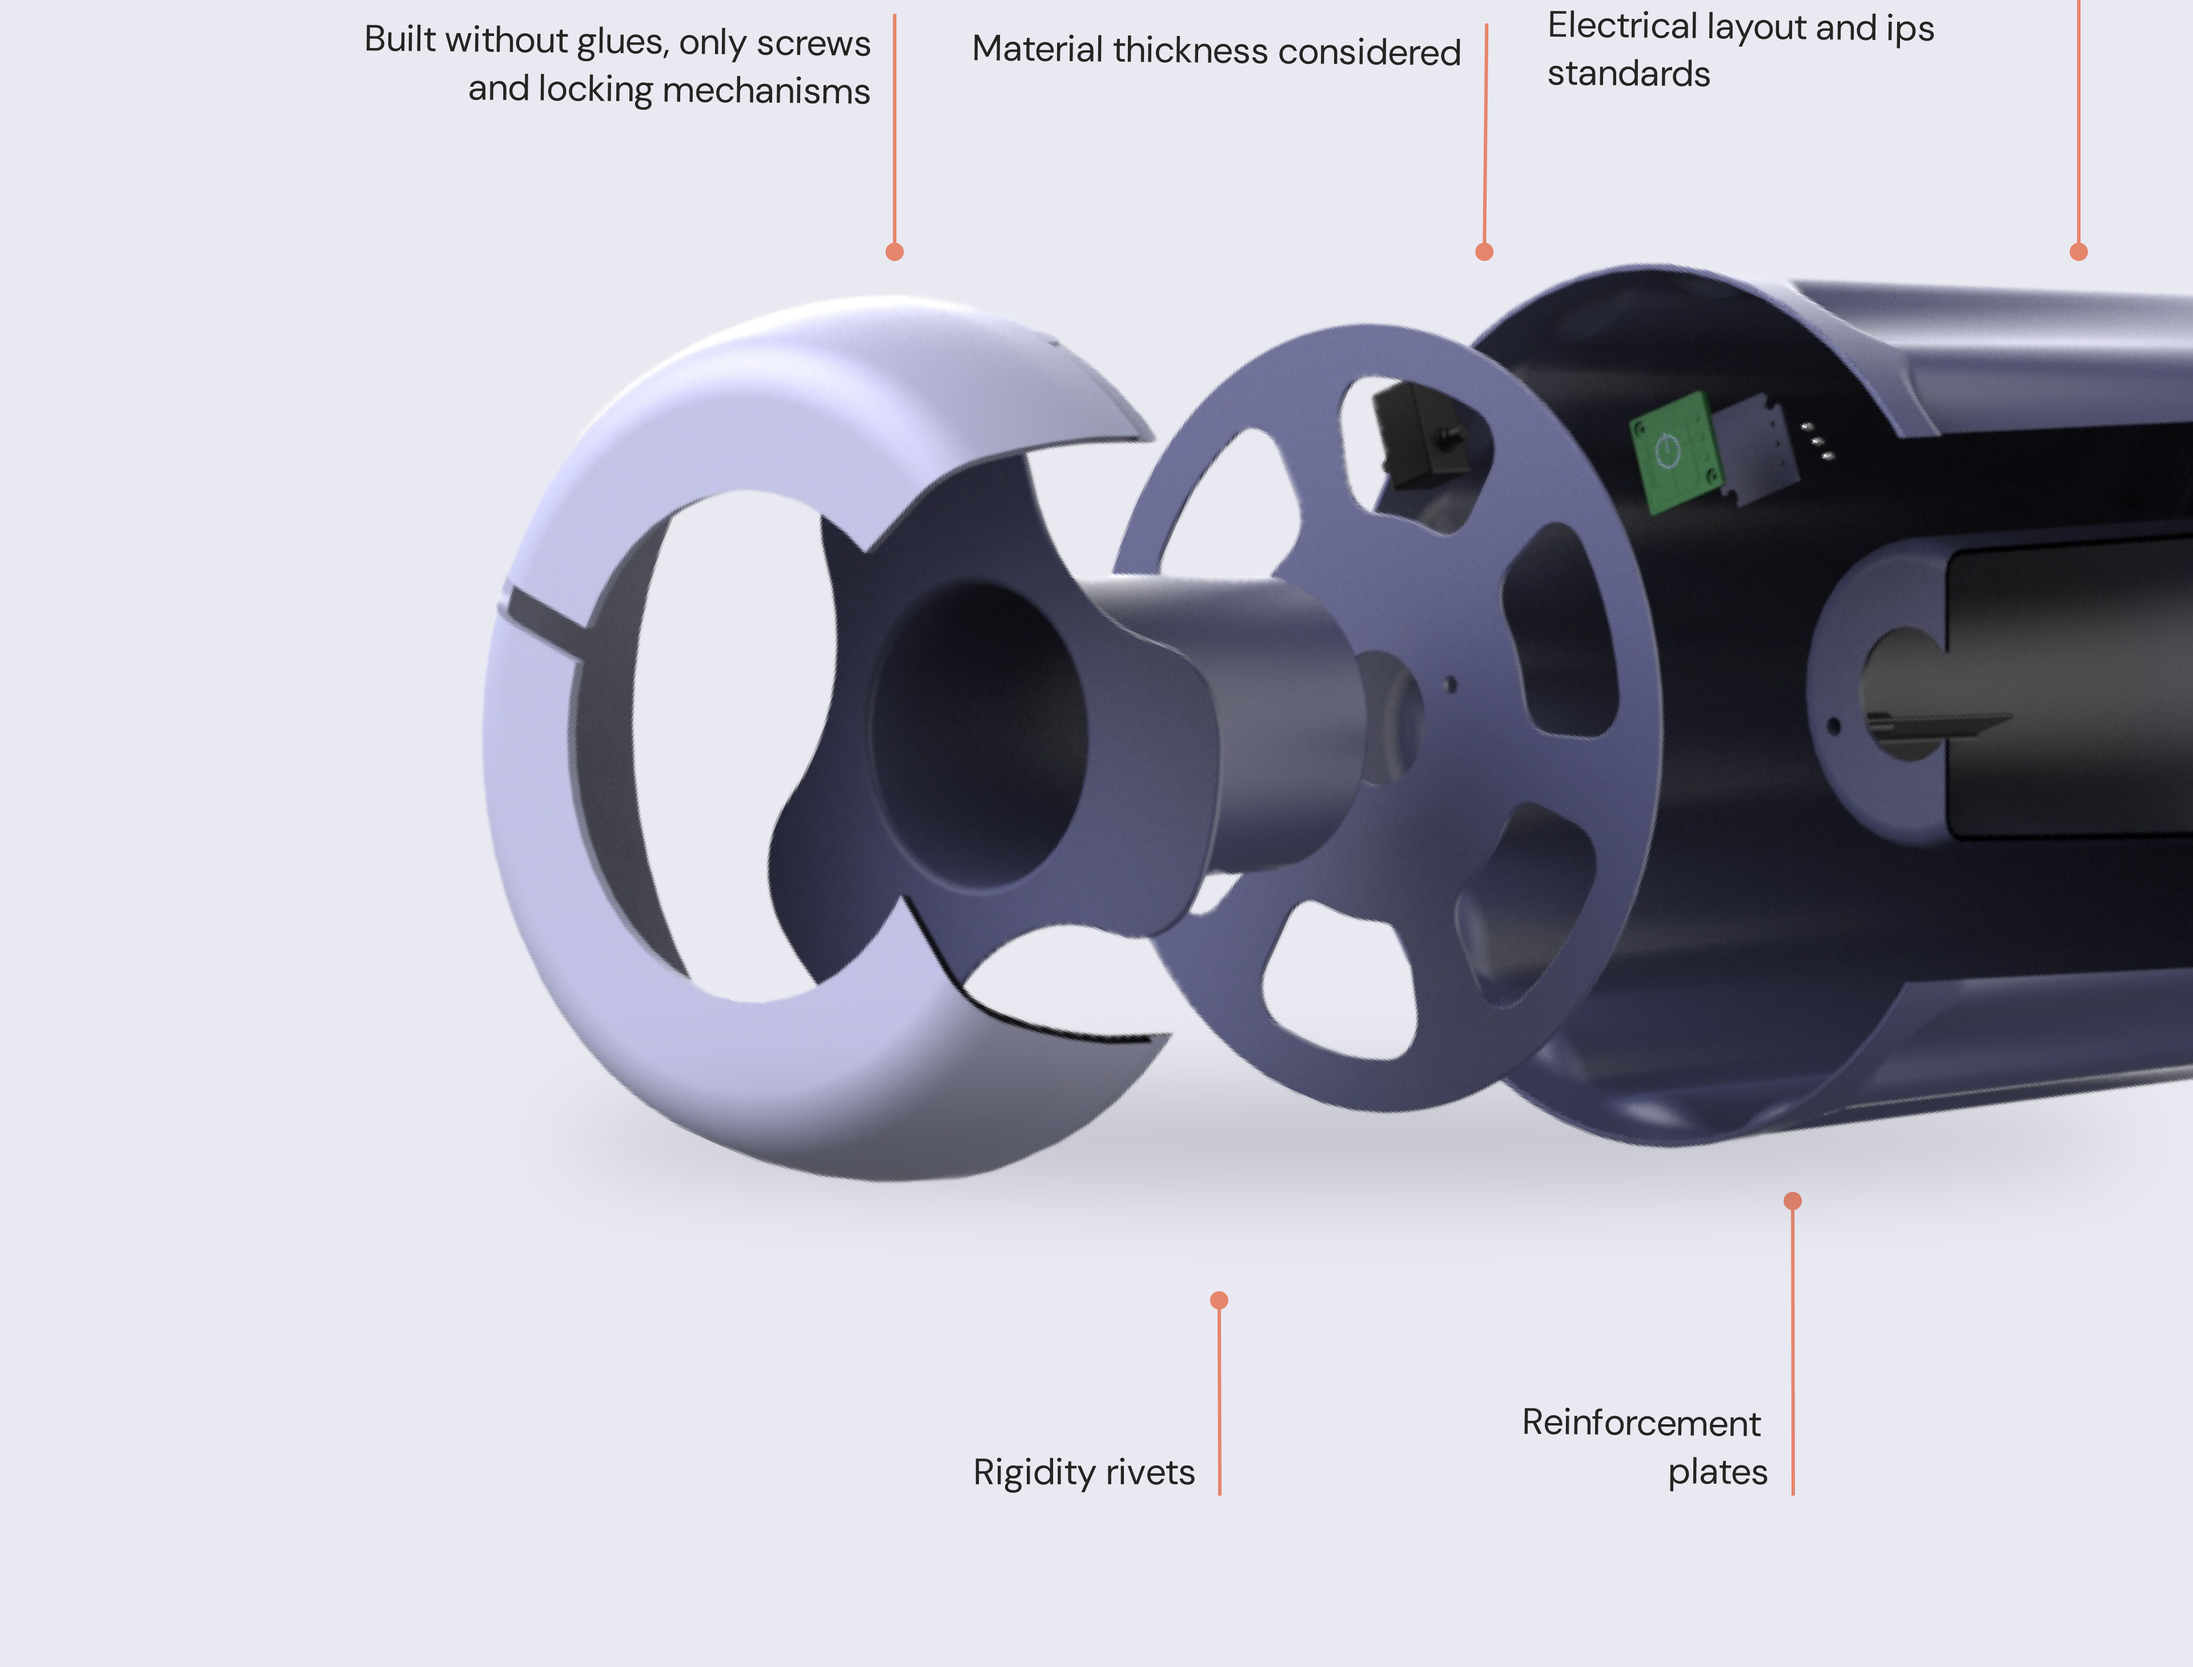
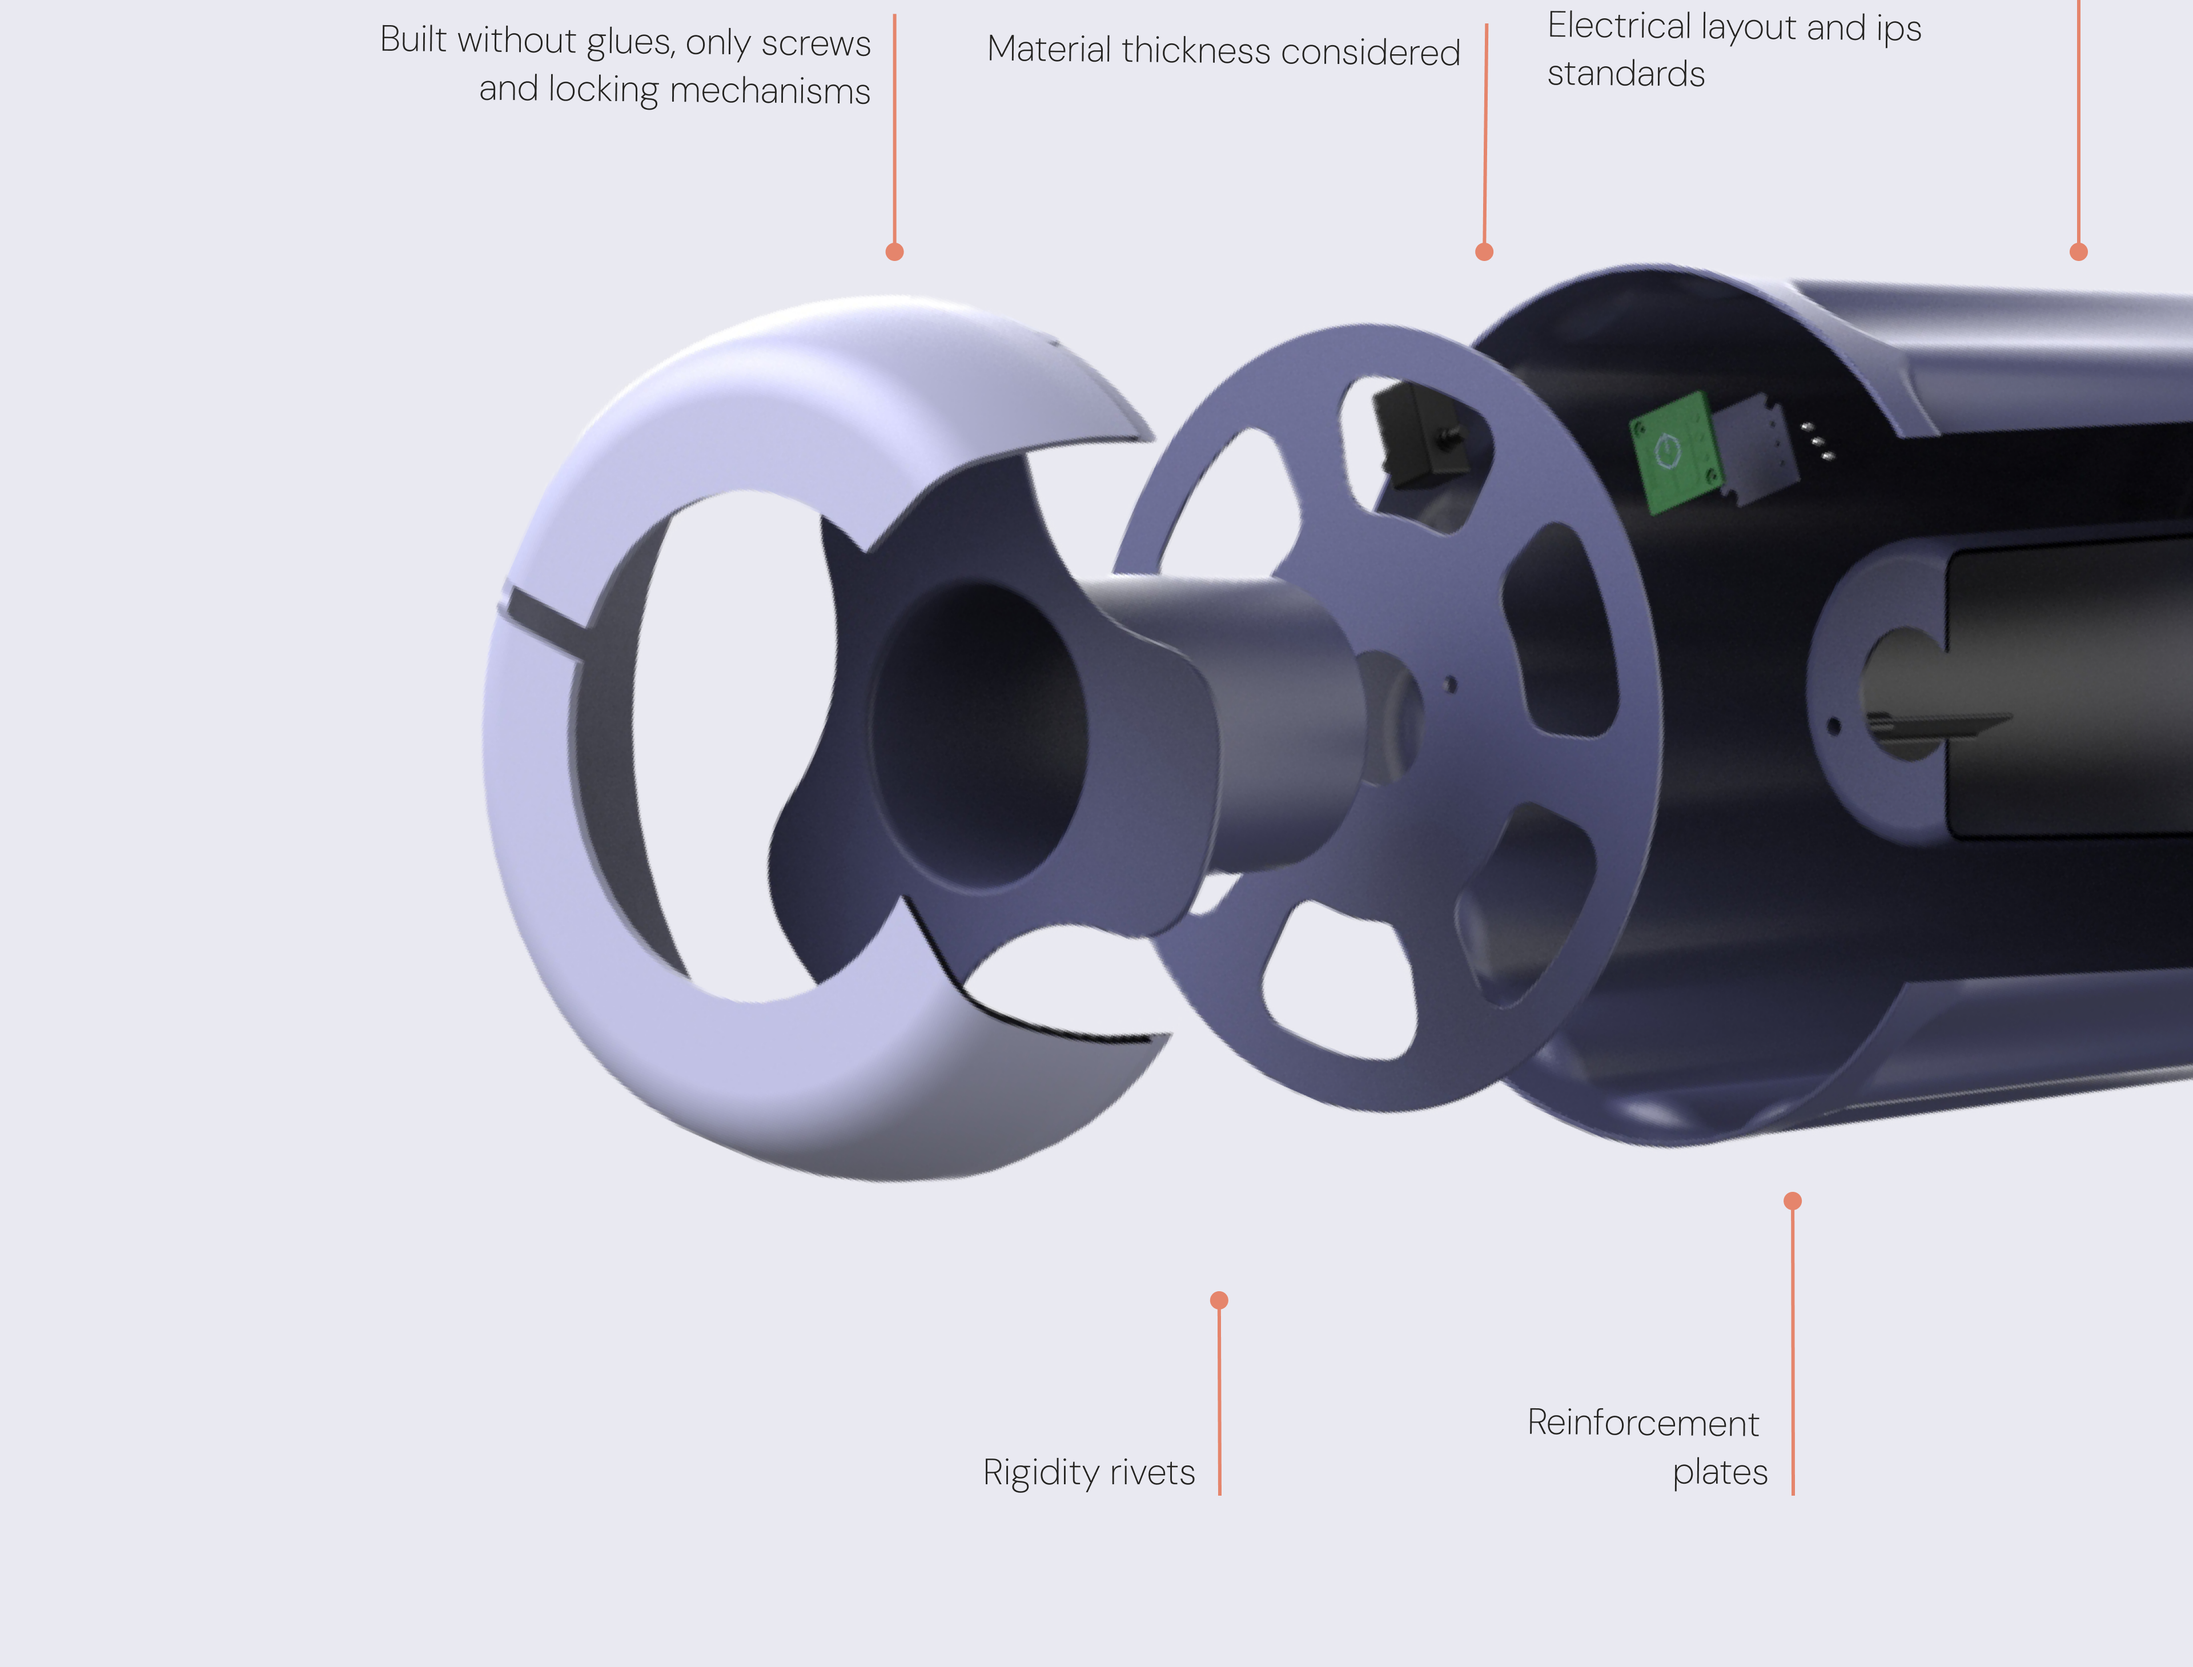
Polish case studies: Mind, Grab, Chlo', Talaris, Product Photography
- Mind: tighten priority-chart gaps; align outcome cards via subgrid;
  mobile prototype copy above video + journey-map scroll hint; remove gray
  box outlines; shrink TU Delft x Logitech mark.
- Grab: mobile demo copy below video with icons above text; replace third
  icon with arrow-selector SVG.
- Chlo': rebuild mobile hero in the Mind layout (meta -> render -> title);
  re-bake exploded-features diagram labels to DM Sans ExtraLight.
- Talaris: reduce to a home-style "Under construction!" line; move last in
  all menus (order 7).
- Product Photography: black closing slide so the renders float.

diff --git a/POLISHING.md b/POLISHING.md
@@ -1,0 +1,42 @@
+POLISHING 
+
+Go project by project adjusting first desktop then mobile. 
+
+LOGITECH MIND-
+
+DESKTOP the priority to constraints chart has too wide of a gap between the column and the arrows we can make it tighter, e can also make sure the texts in the three boxes at the bottom is lined up more properly. 
+
+MOBILE put the title and paragraph of working prototype above the video, play a short scroll animation when the user jurney map is in view to show it is scrollable. 
+
+BOTH remove the gray outline in all of the boxes, make the tudelft x Logitech logo smaller so it does not clash with oether elements.
+
+GRAB- 
+
+DESKTOP no changes 
+
+MOBILE invert the order of the text paragraph and icon and move it below the video 
+
+BOTH next to the video there are three icons, the third, white icon needs to be replaced with this file instead, matching the size of the others "C:\Users\matte\Downloads\arrow_selector_tool_24dp_E07856_FILL0_wght400_GRAD0_opsz24.svg"
+
+
+CHLO'
+
+DESKTOP good 
+
+MOBILE the hero section is a bit messy and needs to be reorganized, focusing on the text hirerarchy first we can copy the layout used in Logitech mind instead 
+
+BOTH the text in the section that talks about thickness and rivets is not the same font and thickness as the standard usage needs to be the thinner one 
+
+TALARIS- needs to be moved last in all menus until the project is shipped.
+
+PRODUCT PHOTOGRAPY 
+
+The last slide needs to be in black color to mack the background of the pictures so they look like they are floating.
+
+
+
+
+
+
+
+
